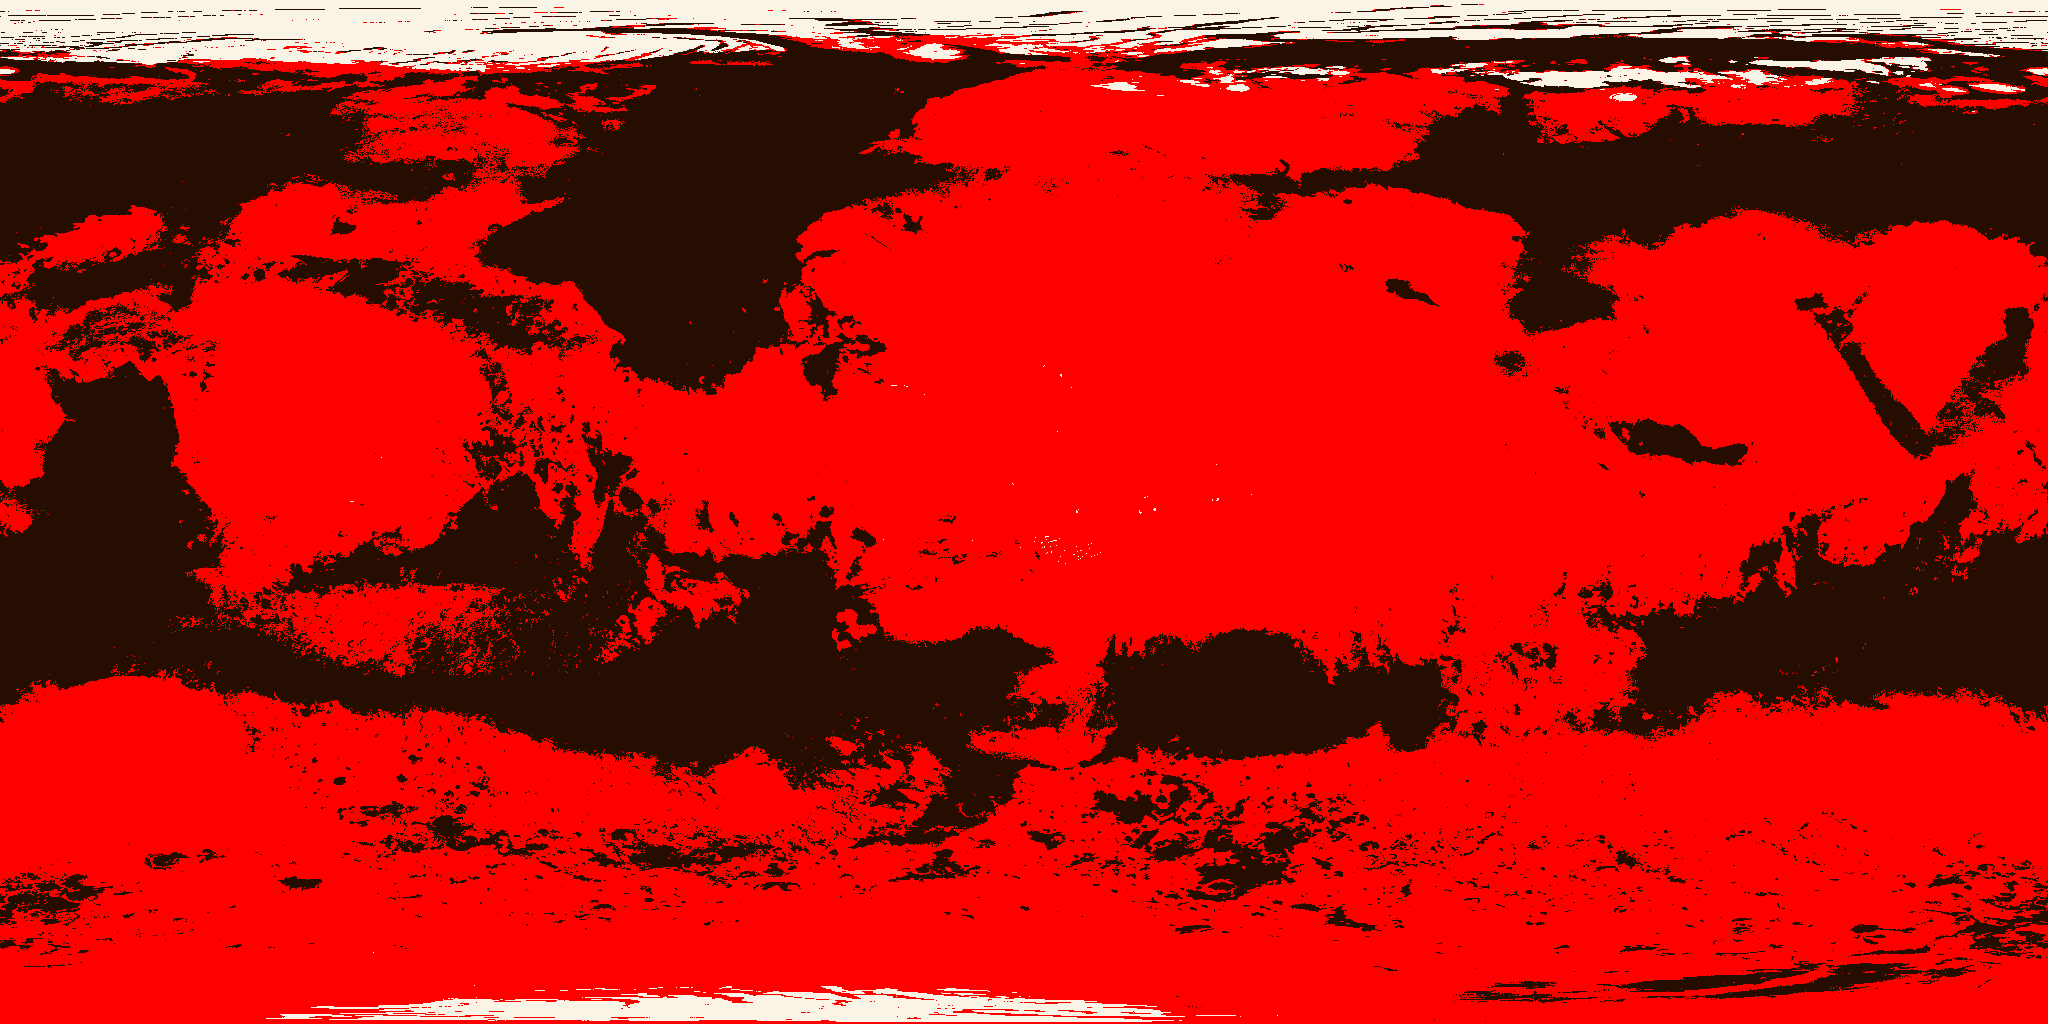
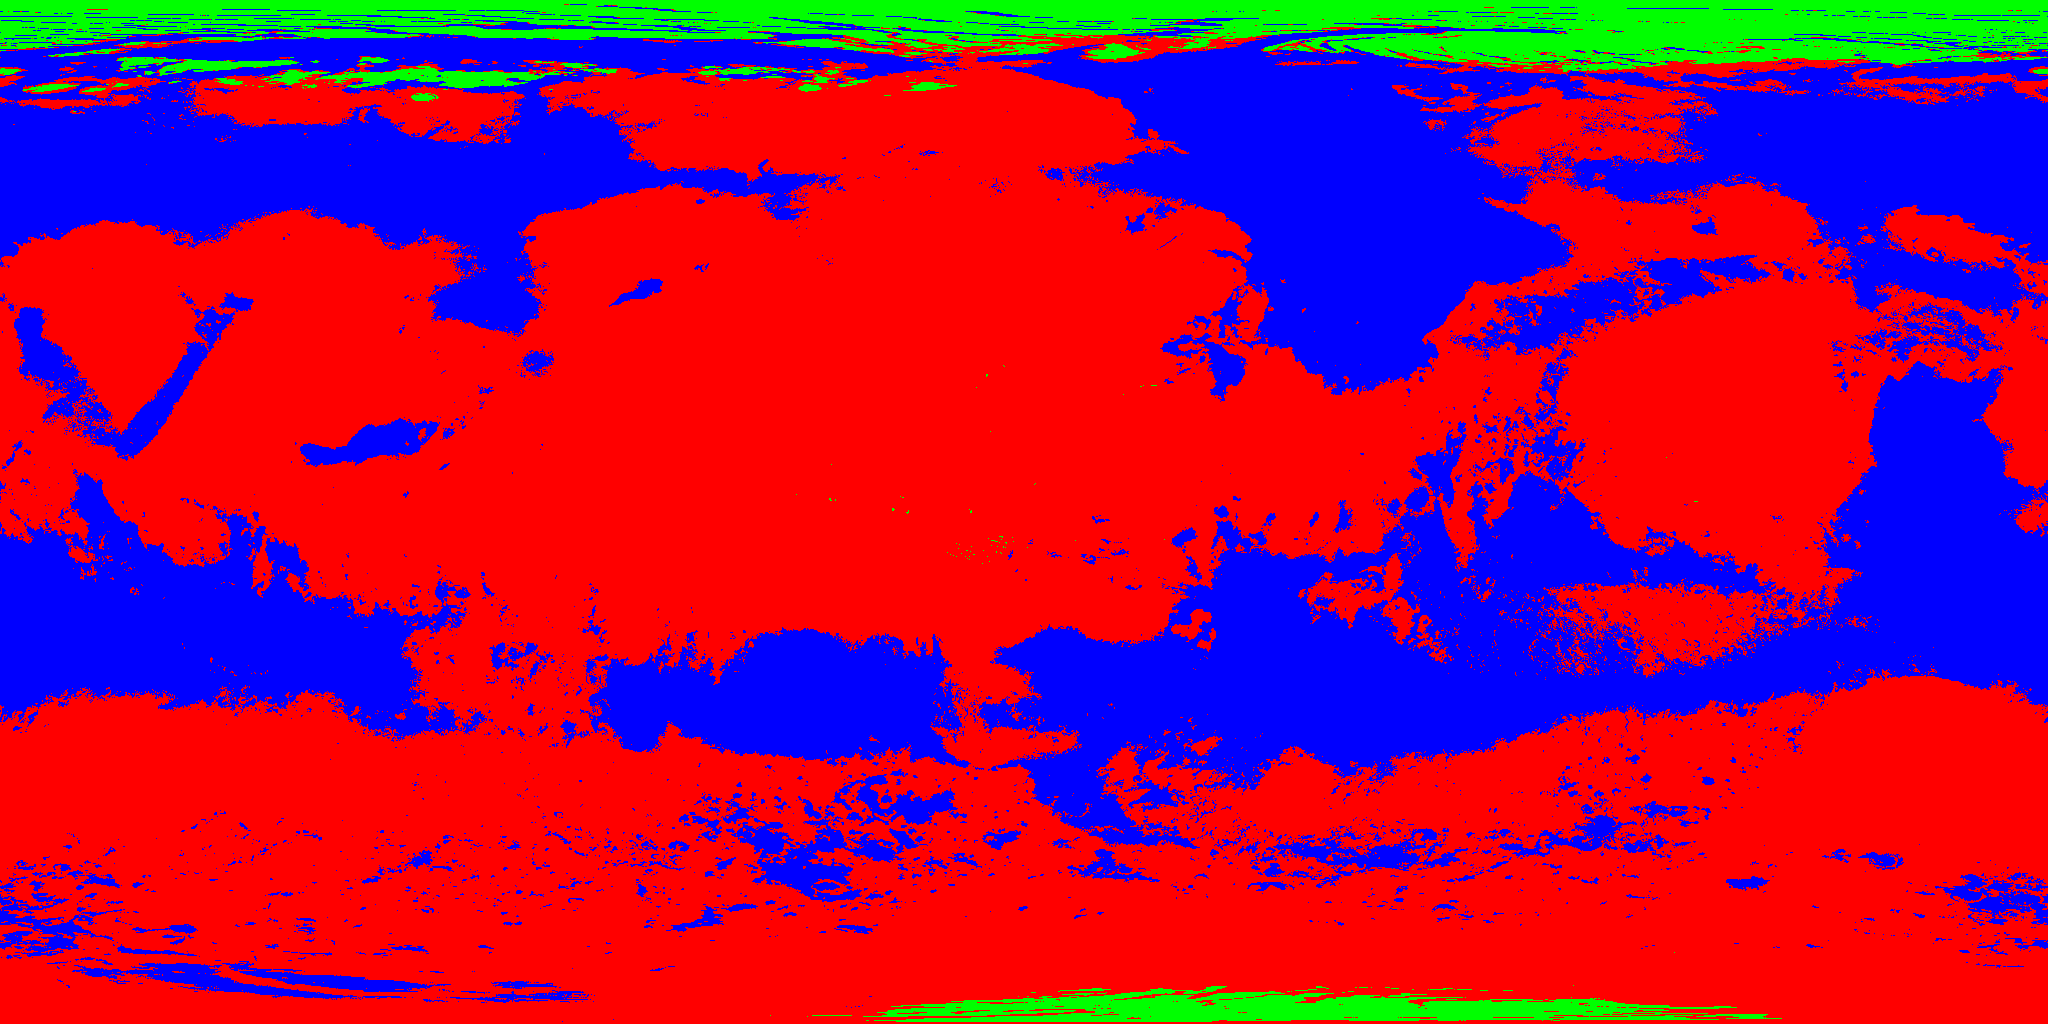
The biome map was backwards... at least our understanding of how the biome mapper works is better for it.

diff --git a/Kopernicus/KopernicusPlanetSource.cs b/Kopernicus/KopernicusPlanetSource.cs
@@ -560,7 +560,7 @@ namespace Kopernicus
 		// appropriate Texture2D.)
 		public static CBAttributeMap GenerateCBAttributeMap(string name) 
 		{
-			Debug.Log ("[Kopernicus] GenerateCBAttributeMap begins");
+			Debug.Log ("[Kopernicus] GenerateCBAttributeMap begins  r4");
 			CBAttributeMap rv = new CBAttributeMap();
 
 			rv.Map = new Texture2D(4, 4, TextureFormat.RGB24, false);
@@ -570,28 +570,47 @@ namespace Kopernicus
 			rv.Map.Compress (false);
 			// If it will let us take in an indexed color PNG that would be preferable - bcs
 			rv.Map.Apply(true, false);
-			//rv.nonExactThreshold = 0.1f; // Possibly related to color matching? Or is it spatial?
-			//rv.exactSearch = true;
+			//rv.nonExactThreshold = -1f; // This will theoretically return the "best match". It also depends on float comparison, but at least it's to a constant.
+			rv.nonExactThreshold = 0.05f; // 0.6 0.0 0.4 matches 1 0 0 at .33 so .1 is fairly generous and should be reduced for maps with many colors
+			// "exact" match is a broken concept (floats should never be compared to floats with == or !=) and (as implemented as of KSP .24.2) should
+			// never be used.
+			rv.exactSearch = false;
 			rv.Attributes = new CBAttributeMap.MapAttribute[3];
 
 			rv.Attributes [0] = new CBAttributeMap.MapAttribute ();
 			rv.Attributes [0].name = "PolarCaps";
 			rv.Attributes [0].value = 1.5f;
-			rv.Attributes [0].mapColor = new Color (0xF9, 0xF4, 0xE5);
+			rv.Attributes [0].mapColor = new Color (0f, 1f, 0f);
 
 			rv.Attributes [1] = new CBAttributeMap.MapAttribute ();
 			rv.Attributes [1].name = "Mares";
 			rv.Attributes [1].value = 1.0f;
-			rv.Attributes [1].mapColor = new Color (0x25, 0x0E, 0x01);
+			rv.Attributes [1].mapColor = new Color (0f, 0f, 1f);
 
 			rv.Attributes [2] = new CBAttributeMap.MapAttribute ();
 			rv.Attributes [2].name = "Dunes";
 			rv.Attributes [2].value = 1.0f;
-			rv.Attributes [2].mapColor = new Color (0xff, 0x00, 0x00);
+			rv.Attributes [2].mapColor = new Color (1f, 0f, 0f);
 
-			rv.defaultAttribute = rv.Attributes [2];
+			rv.defaultAttribute = rv.Attributes [0];
+			/*
+			// Troubleshooting fosssil
+			Vector4 pixelBilinear;
+			Vector4 color;
+			for (float lat = -3f; lat < 3f; lat += .1f)
+				for (float lon = 0f; lon < 6f; lon += .1f) {
+					float innerlon = lon - 1.5707963267948966f;
+					
+					float v = (float)(lat / 3.1415926535897931) + 0.5f;
+					float u = (float)(innerlon / 6.2831853071795862f);
+					pixelBilinear = rv.Map.GetPixelBilinear (u, v); 
+					color = rv.Attributes [2].mapColor;
+					
 
-
+					Debug.Log ("X<A "+ lat + " "+lon+" clr="+ color + " pbl=" + pixelBilinear+" rv=" + rv.GetAtt (lat, lon).name + ":" + 
+				           (color-pixelBilinear).sqrMagnitude);
+				}
+			*/
 			Debug.Log ("[Kopernicus] GenerateCBAttributeMap ends");
 
 			return rv;
